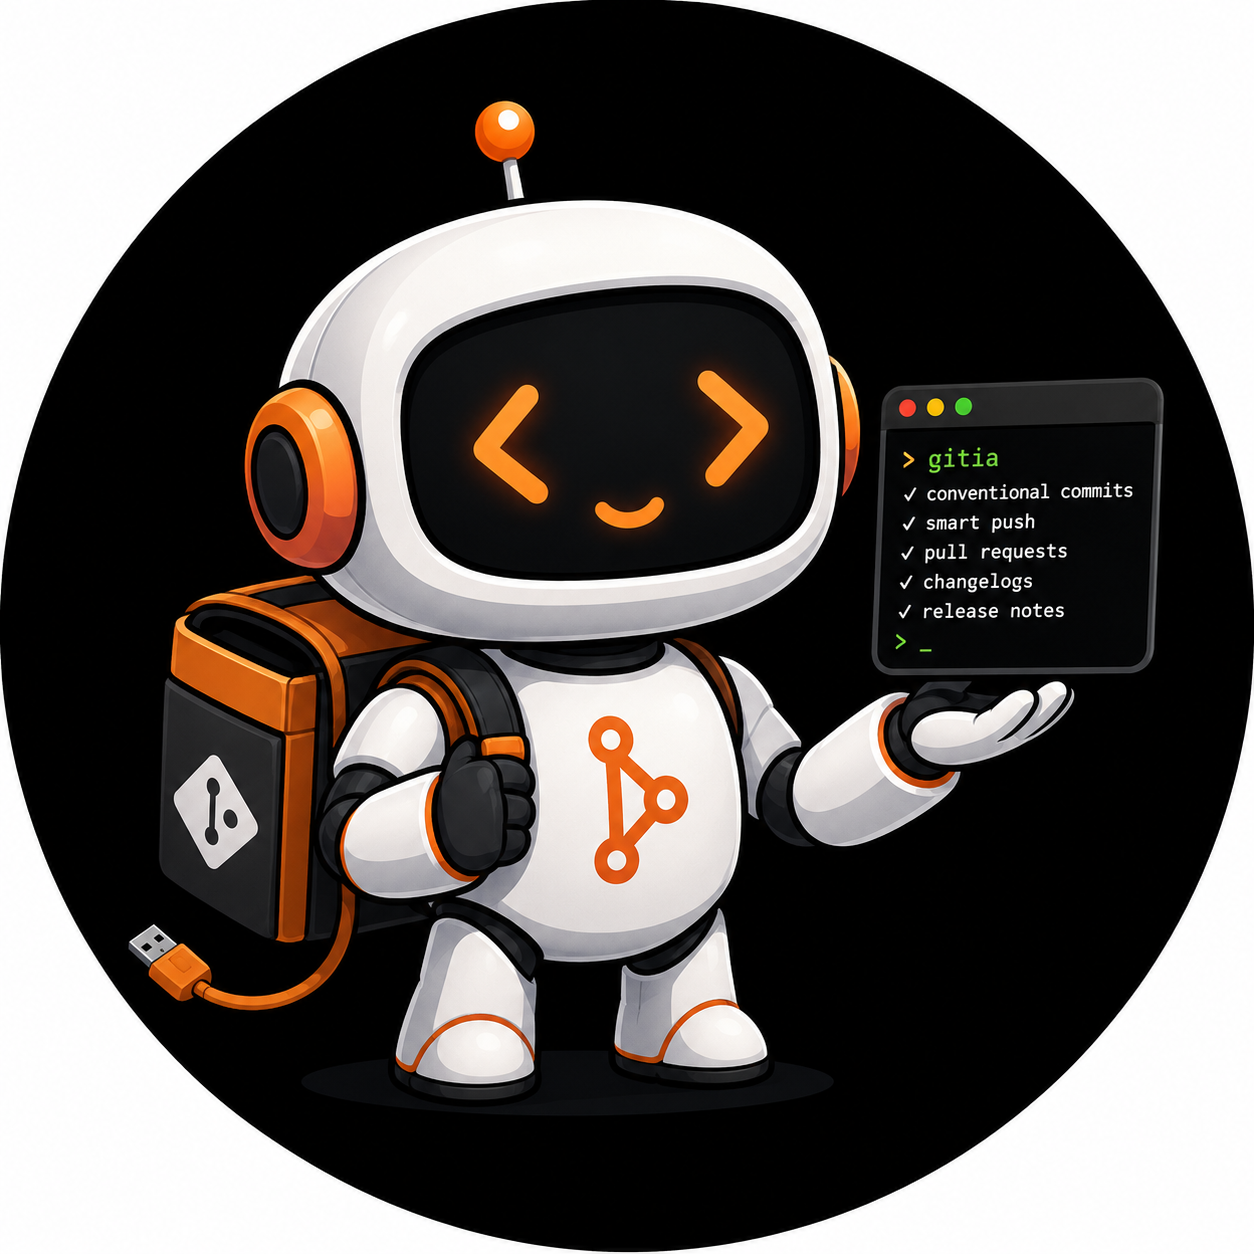
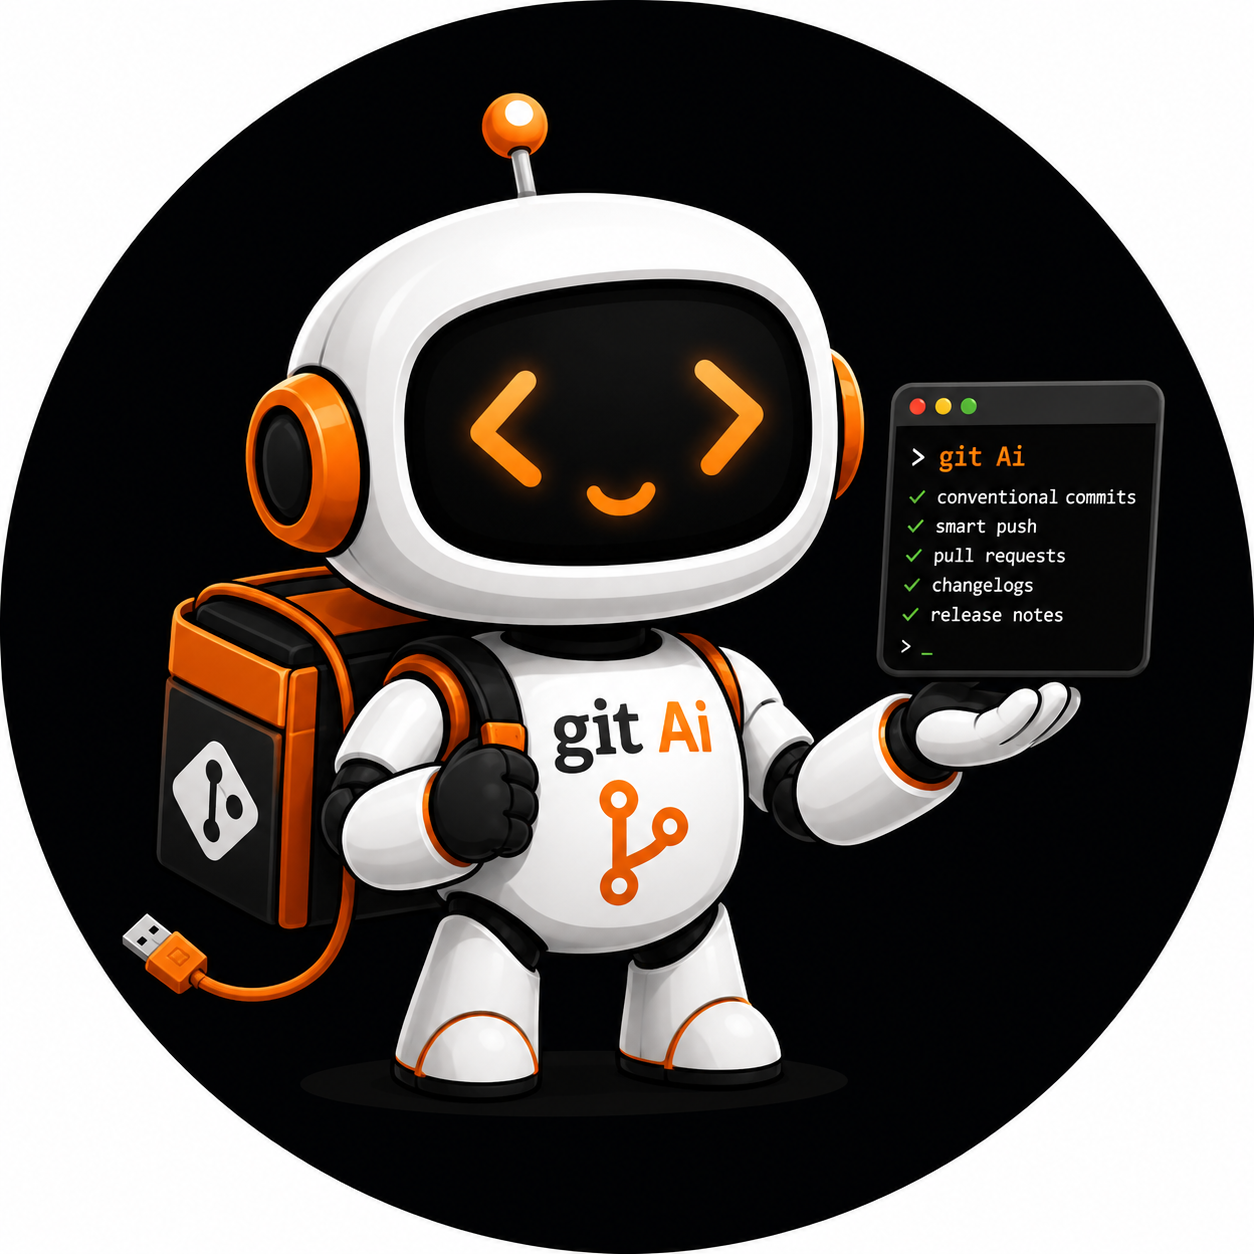
refactor prompt

diff --git a/internal/config/init.go b/internal/config/init.go
@@ -20,31 +20,22 @@ func InitInteractive() error {
 
 	cfg := *existing
 	reader := bufio.NewReader(os.Stdin)
-	hadConfig := strings.TrimSpace(cfg.APIKey) != ""
+	hadConfig := hasSavedConfig(existing)
 
-	if err := sess.Step("Starting configuration wizard", func() error {
-		return nil
-	}); err != nil {
-		return err
-	}
-
+	sess.SectionFirst("Configuração")
 	if hadConfig {
 		sess.Info("Configuração atual detectada — Enter mantém cada valor entre colchetes")
+	} else {
+		sess.Info("Configure o provedor e o modelo de IA; a chave API vem em seguida")
 	}
 
 	prevProvider := cfg.Provider
 
-	provider, err := promptChoice(sess, reader, "Provider", []string{"openrouter", "openai", "gemini"}, string(cfg.Provider))
+	provider, err := promptChoice(sess, reader, "Provedor", []string{"openrouter", "openai", "gemini"}, string(cfg.Provider))
 	if err != nil {
 		return err
 	}
 	cfg.Provider = Provider(provider)
-
-	apiKey, err := promptKeep(sess, reader, "API Key", MaskAPIKey(cfg.APIKey), cfg.APIKey)
-	if err != nil {
-		return err
-	}
-	cfg.APIKey = apiKey
 
 	modelDefault := cfg.Model
 	if cfg.Provider != prevProvider || modelDefault == "" {
@@ -54,7 +45,8 @@ func InitInteractive() error {
 	if cfg.Provider != prevProvider {
 		modelKeep = modelDefault
 	}
-	model, err := promptKeep(sess, reader, "Model", modelDefault, modelKeep)
+	sess.Info(fmt.Sprintf("Sugestões para %s: %s", provider, strings.Join(modelSuggestions(cfg.Provider), ", ")))
+	model, err := promptKeep(sess, reader, "Modelo", modelDefault, modelKeep)
 	if err != nil {
 		return err
 	}
@@ -62,6 +54,14 @@ func InitInteractive() error {
 		model = modelDefault
 	}
 	cfg.Model = model
+
+	apiKey, err := promptAPIKey(sess, reader, cfg.Provider, cfg.APIKey)
+	if err != nil {
+		return err
+	}
+	cfg.APIKey = apiKey
+
+	sess.Section("Preferências")
 
 	lang, err := promptKeep(sess, reader, "Idioma das mensagens", cfg.Language, cfg.Language)
 	if err != nil {
@@ -94,6 +94,10 @@ func InitInteractive() error {
 	}
 	cfg.ClearScreen = clear
 
+	if strings.TrimSpace(cfg.APIKey) == "" && strings.TrimSpace(os.Getenv(EnvAPIKey)) == "" {
+		return fmt.Errorf("chave API obrigatória — defina no wizard ou na variável %s", EnvAPIKey)
+	}
+
 	if err := sess.Step("Saving configuration", func() error {
 		return Save(savePath, cfg)
 	}); err != nil {
@@ -103,6 +107,25 @@ func InitInteractive() error {
 	sess.Detail(savePath)
 	sess.Success("Configuration saved ✨")
 	return nil
+}
+
+func hasSavedConfig(cfg *Config) bool {
+	if strings.TrimSpace(cfg.APIKey) != "" {
+		return true
+	}
+	path, err := ConfigPath()
+	if err != nil {
+		return false
+	}
+	if _, err := os.Stat(path); err == nil {
+		return true
+	}
+	localPath := LocalConfigPath()
+	if localPath == "" {
+		return false
+	}
+	_, err = os.Stat(localPath)
+	return err == nil
 }
 
 func defaultModelFor(p Provider) string {
@@ -116,8 +139,31 @@ func defaultModelFor(p Provider) string {
 	}
 }
 
+func modelSuggestions(p Provider) []string {
+	switch p {
+	case ProviderOpenAI:
+		return []string{"gpt-4o-mini", "gpt-4o", "gpt-4.1-mini"}
+	case ProviderGemini:
+		return []string{"gemini-2.5-flash-lite", "gemini-2.5-flash", "gemini-2.0-flash"}
+	default:
+		return []string{"deepseek/deepseek-chat", "anthropic/claude-sonnet-4", "google/gemini-2.5-flash-lite"}
+	}
+}
+
+func apiKeyHint(p Provider) string {
+	switch p {
+	case ProviderOpenAI:
+		return "https://platform.openai.com/api-keys"
+	case ProviderGemini:
+		return "https://aistudio.google.com/apikey"
+	default:
+		return "https://openrouter.ai/keys"
+	}
+}
+
 func promptChoice(sess *ui.Session, reader *bufio.Reader, label string, options []string, defaultVal string) (string, error) {
-	sess.Prompt(fmt.Sprintf("%s (%s) [%s]: ", label, strings.Join(options, ", "), defaultVal))
+	sess.Info("Opções: " + strings.Join(options, ", "))
+	sess.Prompt(fmt.Sprintf("%s [%s]: ", label, defaultVal))
 	input, err := reader.ReadString('\n')
 	if err != nil {
 		return "", err
@@ -136,6 +182,25 @@ func promptChoice(sess *ui.Session, reader *bufio.Reader, label string, options 
 
 func promptKeep(sess *ui.Session, reader *bufio.Reader, label, displayDefault, current string) (string, error) {
 	sess.Prompt(fmt.Sprintf("%s [%s]: ", label, displayDefault))
+	input, err := reader.ReadString('\n')
+	if err != nil {
+		return "", err
+	}
+	input = strings.TrimSpace(input)
+	if input == "" {
+		return current, nil
+	}
+	return input, nil
+}
+
+func promptAPIKey(sess *ui.Session, reader *bufio.Reader, provider Provider, current string) (string, error) {
+	sess.Info("Chave em " + apiKeyHint(provider))
+	current = strings.TrimSpace(current)
+	if current == "" {
+		sess.Prompt("Chave API: ")
+	} else {
+		sess.Prompt(fmt.Sprintf("Chave API [%s, Enter mantém]: ", MaskAPIKey(current)))
+	}
 	input, err := reader.ReadString('\n')
 	if err != nil {
 		return "", err

diff --git a/README.md b/README.md
@@ -203,9 +203,9 @@ O wizard pergunta, nesta ordem:
 
 | Campo | Opções / default | Descrição |
 |-------|------------------|-----------|
-| Provider | `openrouter`, `openai`, `gemini` | Serviço de IA |
-| API Key | — | Chave do provider (Enter mantém a atual) |
-| Model | depende do provider | Modelo de linguagem (Enter mantém) |
+| Provedor | `openrouter`, `openai`, `gemini` | Serviço de IA |
+| Modelo | depende do provedor | Modelo de linguagem (Enter mantém) |
+| Chave API | — | Chave do provedor (Enter mantém a atual) |
 | Idioma | default: `pt-BR` | Idioma das mensagens geradas |
 | Branch base | default: `main` | Branch usada como base do PR |
 | Co-author | opcional | Trailer adicionado ao commit |